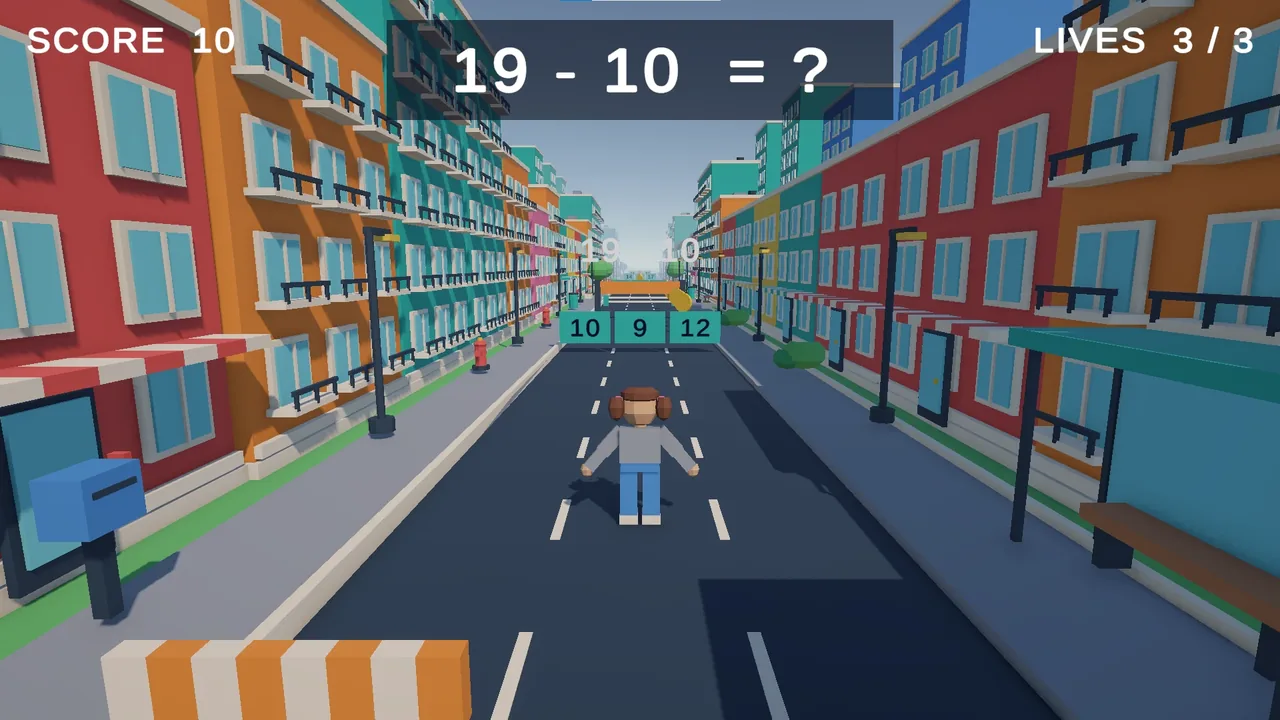
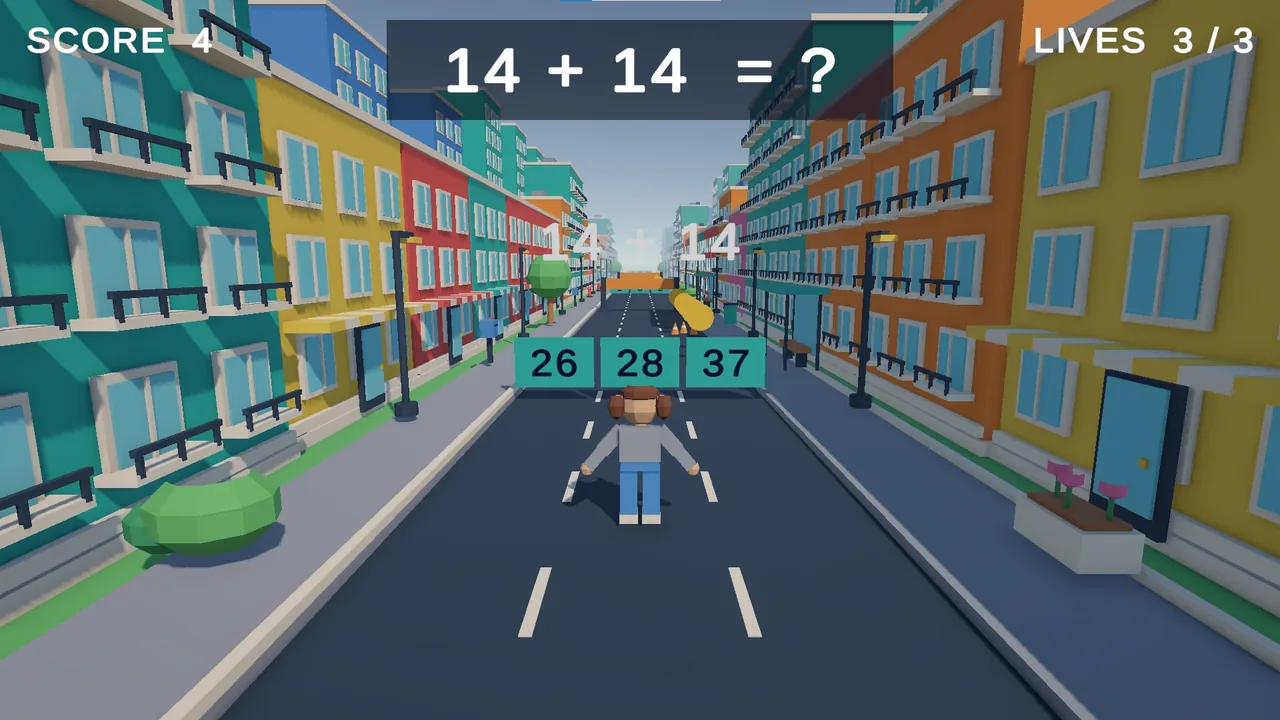
Use new gameplay screenshot for hero and social preview

diff --git a/docs/index.html b/docs/index.html
@@ -20,13 +20,13 @@
 <meta property="og:image:type" content="image/jpeg">
 <meta property="og:image:width" content="1200">
 <meta property="og:image:height" content="630">
-<meta property="og:image:alt" content="Math Runner gameplay: a runner on a city street faces three answer boards, 10, 9 and 12, under the question 19 - 10 = ?.">
+<meta property="og:image:alt" content="Math Runner gameplay: a runner on a city street faces three answer boards, 26, 28 and 37, under the question 14 + 14 = ?.">
 <meta property="og:locale" content="en_US">
 <meta name="twitter:card" content="summary_large_image">
 <meta name="twitter:title" content="Math Runner: run to the right answer">
 <meta name="twitter:description" content="A 3D street runner where every gate is a math question. Steer into the lane with the correct answer.">
 <meta name="twitter:image" content="https://math-runner.itkamianets.com/og-image.jpg">
-<meta name="twitter:image:alt" content="Math Runner gameplay: a runner on a city street faces three answer boards, 10, 9 and 12, under the question 19 - 10 = ?.">
+<meta name="twitter:image:alt" content="Math Runner gameplay: a runner on a city street faces three answer boards, 26, 28 and 37, under the question 14 + 14 = ?.">
 
 <script type="application/ld+json">
 {
@@ -209,7 +209,7 @@
           <a class="ds-btn ds-btn-outline ds-btn-lg" href="#how">How it plays</a>
         </div>
       </div>
-      <img class="shot" src="images/gameplay.webp" width="1280" height="720" alt="Math Runner gameplay: a runner on a city street faces three answer boards, 10, 9 and 12, under the question 19 - 10 = ?." fetchpriority="high">
+      <img class="shot" src="images/gameplay.webp" width="1280" height="720" alt="Math Runner gameplay: a runner on a city street faces three answer boards, 26, 28 and 37, under the question 14 + 14 = ?." fetchpriority="high">
     </div>
   </section>
 
